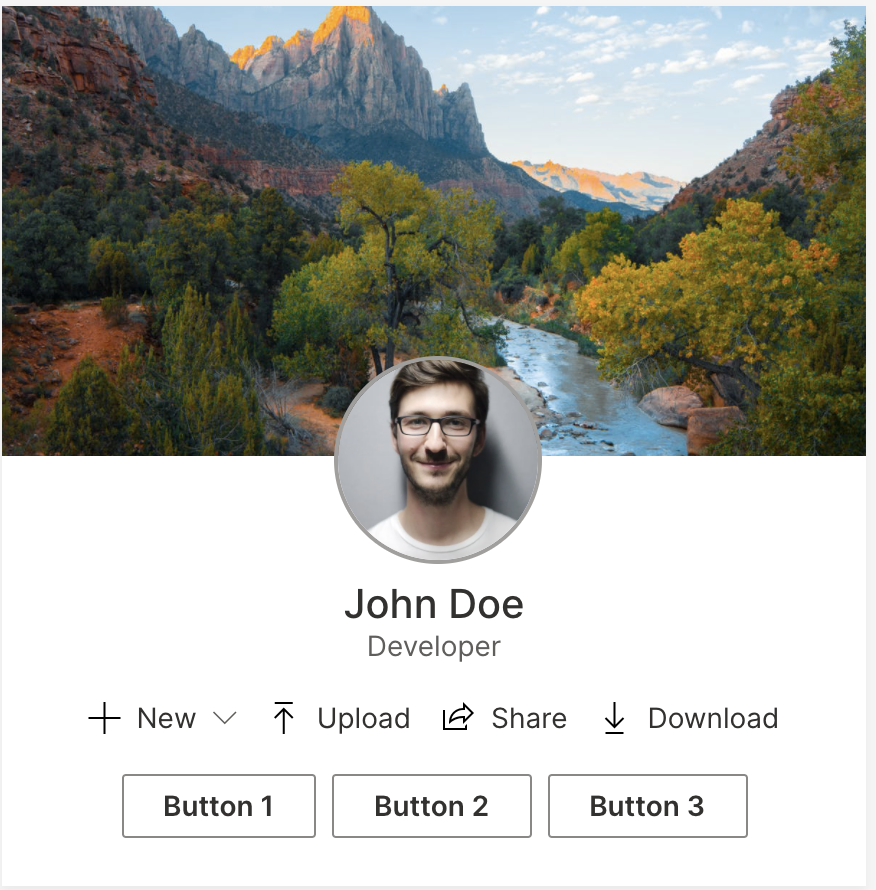
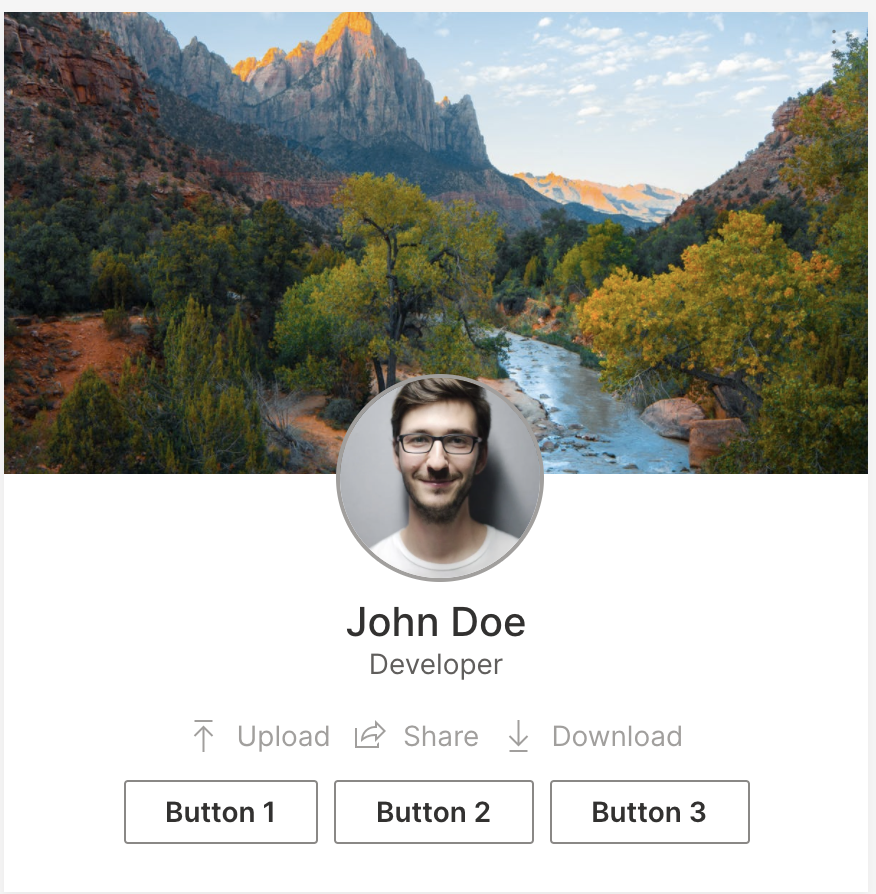
chore: refactor using existing mini_buttons instead of commands #1033

Changed region(s): [[0.0, 0.0, 1.0, 0.7584], [0.1233, 0.7888, 0.8938, 0.9708], [0.0925, 0.7888, 0.1233, 0.8191]]

diff --git a/ui/src/profile.tsx b/ui/src/profile.tsx
@@ -19,46 +19,35 @@ import { stylesheet } from 'typestyle'
 import { Component, XComponents } from './form'
 import { cards } from './layout'
 import { border, cssVar } from './theme'
-import { Command, toCommands } from './toolbar'
+import { Command } from './toolbar'
 import { bond } from './ui'
 
-const
-  css = stylesheet({
-    card: {
-      display: 'flex',
-      flexDirection: 'column',
-      $nest: {
-        '+div': {
-          display: 'none' // HACK: Hide page-wide command menu.
-        }
-      }
-    },
-    content: {
-      padding: 24
-    },
-    img: {
-      flexGrow: 1,
-      minHeight: 150,
-      backgroundSize: 'cover',
-      backgroundRepeat: 'no-repeat',
-      backgroundPosition: 'center'
-    },
-    persona: {
-      margin: '0 auto',
-      display: 'flex',
-      flexDirection: 'column',
-      alignItems: 'center',
-      marginBottom: 16
-    },
-    items: {
-      marginTop: 16
-    }
-  }),
-  commandBarPrimarySetStyles: Fluent.IStyle = {
-    justifyContent: 'center',
-    background: `${cssVar('$card')}`,
-    '.ms-Button:not(:hover)': { background: `${cssVar('$card')} !important` }
+const css = stylesheet({
+  card: {
+    display: 'flex',
+    flexDirection: 'column',
+  },
+  content: {
+    padding: 24
+  },
+  img: {
+    flexGrow: 1,
+    minHeight: 150,
+    backgroundSize: 'cover',
+    backgroundRepeat: 'no-repeat',
+    backgroundPosition: 'center'
+  },
+  persona: {
+    margin: '0 auto',
+    display: 'flex',
+    flexDirection: 'column',
+    alignItems: 'center',
+    marginBottom: 16
+  },
+  items: {
+    marginTop: 16
   }
+})
 
 /** Create a profile card to display information about a user. */
 interface State {
@@ -84,7 +73,7 @@ interface State {
 
 export const View = bond(({ name, state, changed }: Model<State & { commands: Command[] }>) => {
   const render = () => {
-    const { title, subtitle, image, profile_image, initials, commands, items } = state
+    const { title, subtitle, image, profile_image, initials, items } = state
     return (
       <div data-test={name} className={css.card}>
         {image && <div className={css.img} style={{ backgroundImage: `url('${image}')` }}></div>}
@@ -106,7 +95,6 @@ export const View = bond(({ name, state, changed }: Model<State & { commands: Co
               }}
             />
           </div>
-          {commands && <Fluent.CommandBar items={toCommands(commands)} styles={{ root: { padding: 0, height: 24 }, primarySet: commandBarPrimarySetStyles }} />}
           {items && <div className={css.items}><XComponents items={items} /></div>}
         </div>
       </div>

diff --git a/ui/src/toolbar.tsx b/ui/src/toolbar.tsx
@@ -41,8 +41,6 @@ export interface Command {
   data?: S
 }
 
-export const toCommands = (commands: Command[]) => commands.map(toCommand)
-
 /** Create a card containing a toolbar. */
 interface State {
   /** Items to render. */
@@ -53,10 +51,10 @@ interface State {
   overflow_items?: Command[]
 }
 
-export const toCommands = (commands: Command[]) => commands.map(toCommand)
 
 const
   overflowProps: IButtonProps = { ariaLabel: 'More' },
+  toCommands = (commands: Command[]) => commands.map(toCommand),
   toCommand = ({ name, label, caption, icon, items, value }: Command): ICommandBarItemProps => {
     wave.args[name] = false
     const onClick = () => {

diff --git a/py/examples/profile.py b/py/examples/profile.py
@@ -11,16 +11,14 @@ page.add('example', ui.profile_card(
     subtitle='Developer',
     image='https://images.pexels.com/photos/3225517/pexels-photo-3225517.jpeg?auto=compress&cs=tinysrgb&dpr=2&h=750&w=1260', # noqa
     profile_image='https://images.pexels.com/photos/220453/pexels-photo-220453.jpeg?auto=compress&h=750&w=1260',
-    commands=[
-        ui.command(name='new', label='New', icon='Add', items=[
-            ui.command(name='email', label='Email Message', icon='Mail'),
-            ui.command(name='calendar', label='Calendar Event', icon='Calendar'),
-        ]),
-        ui.command(name='upload', label='Upload', icon='Upload'),
-        ui.command(name='share', label='Share', icon='Share'),
-        ui.command(name='download', label='Download', icon='Download'),
-    ],
     items=[
+        ui.inline(justify='center', items=[
+            ui.mini_buttons([
+                ui.mini_button(name='upload', label='Upload', icon='Upload'),
+                ui.mini_button(name='share', label='Share', icon='Share'),
+                ui.mini_button(name='download', label='Download', icon='Download'),
+            ])
+        ]),
         ui.inline(justify='center', items=[
             ui.button(name='btn1', label='Button 1'),
             ui.button(name='btn2', label='Button 2'),
